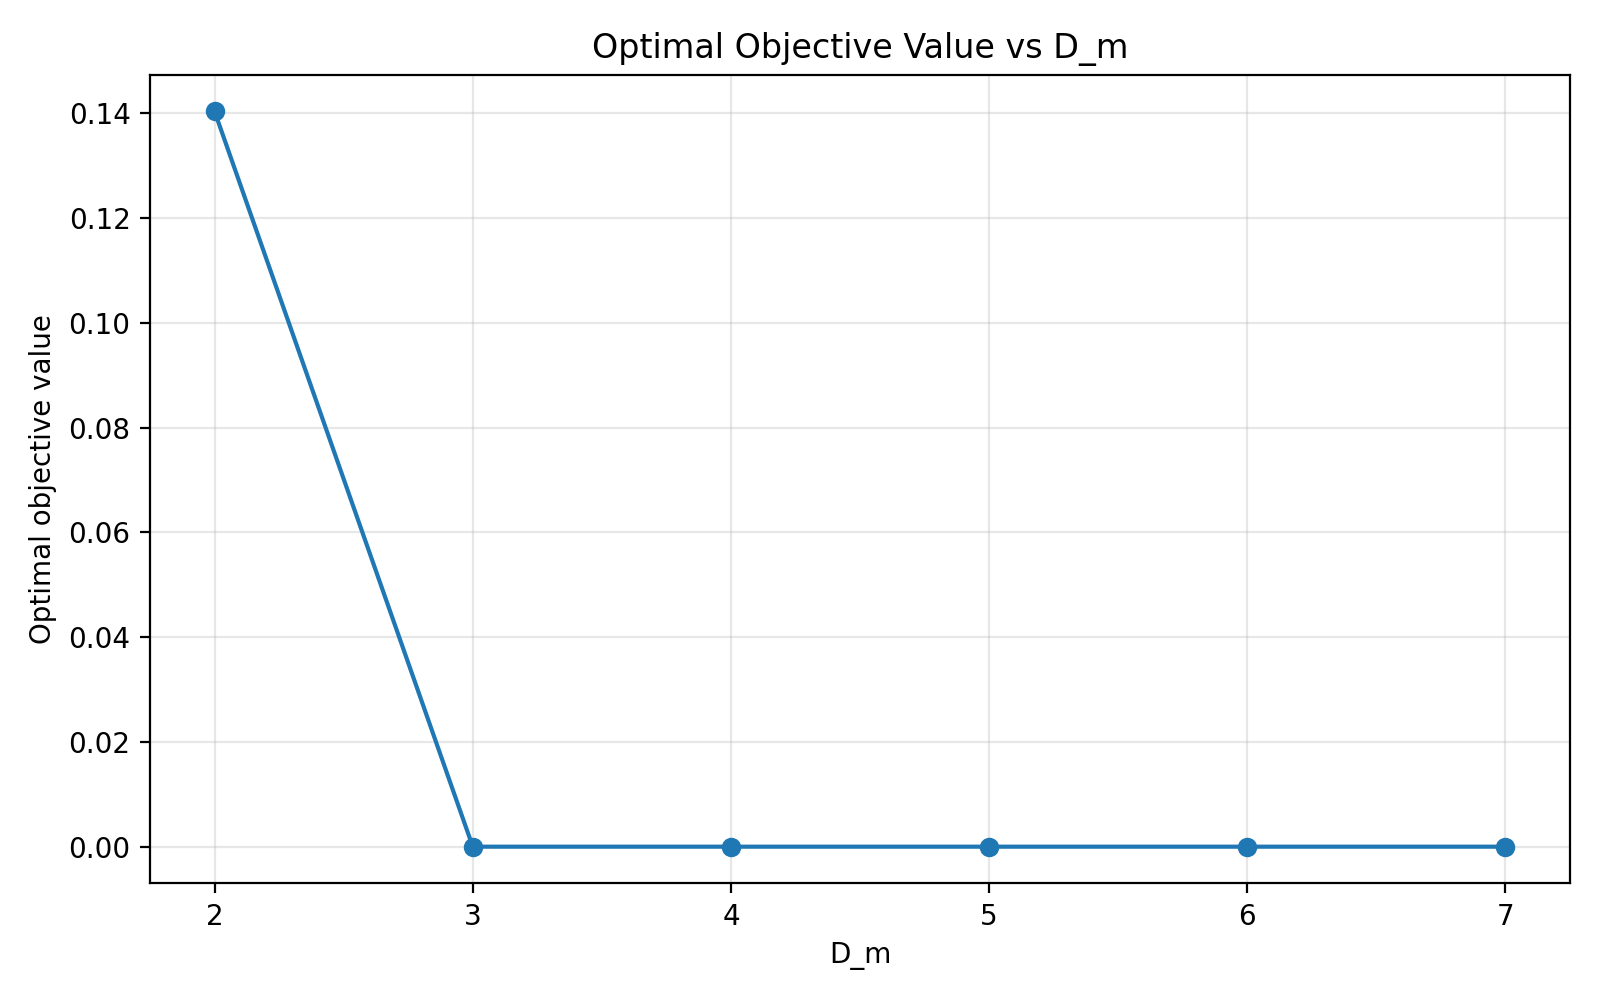
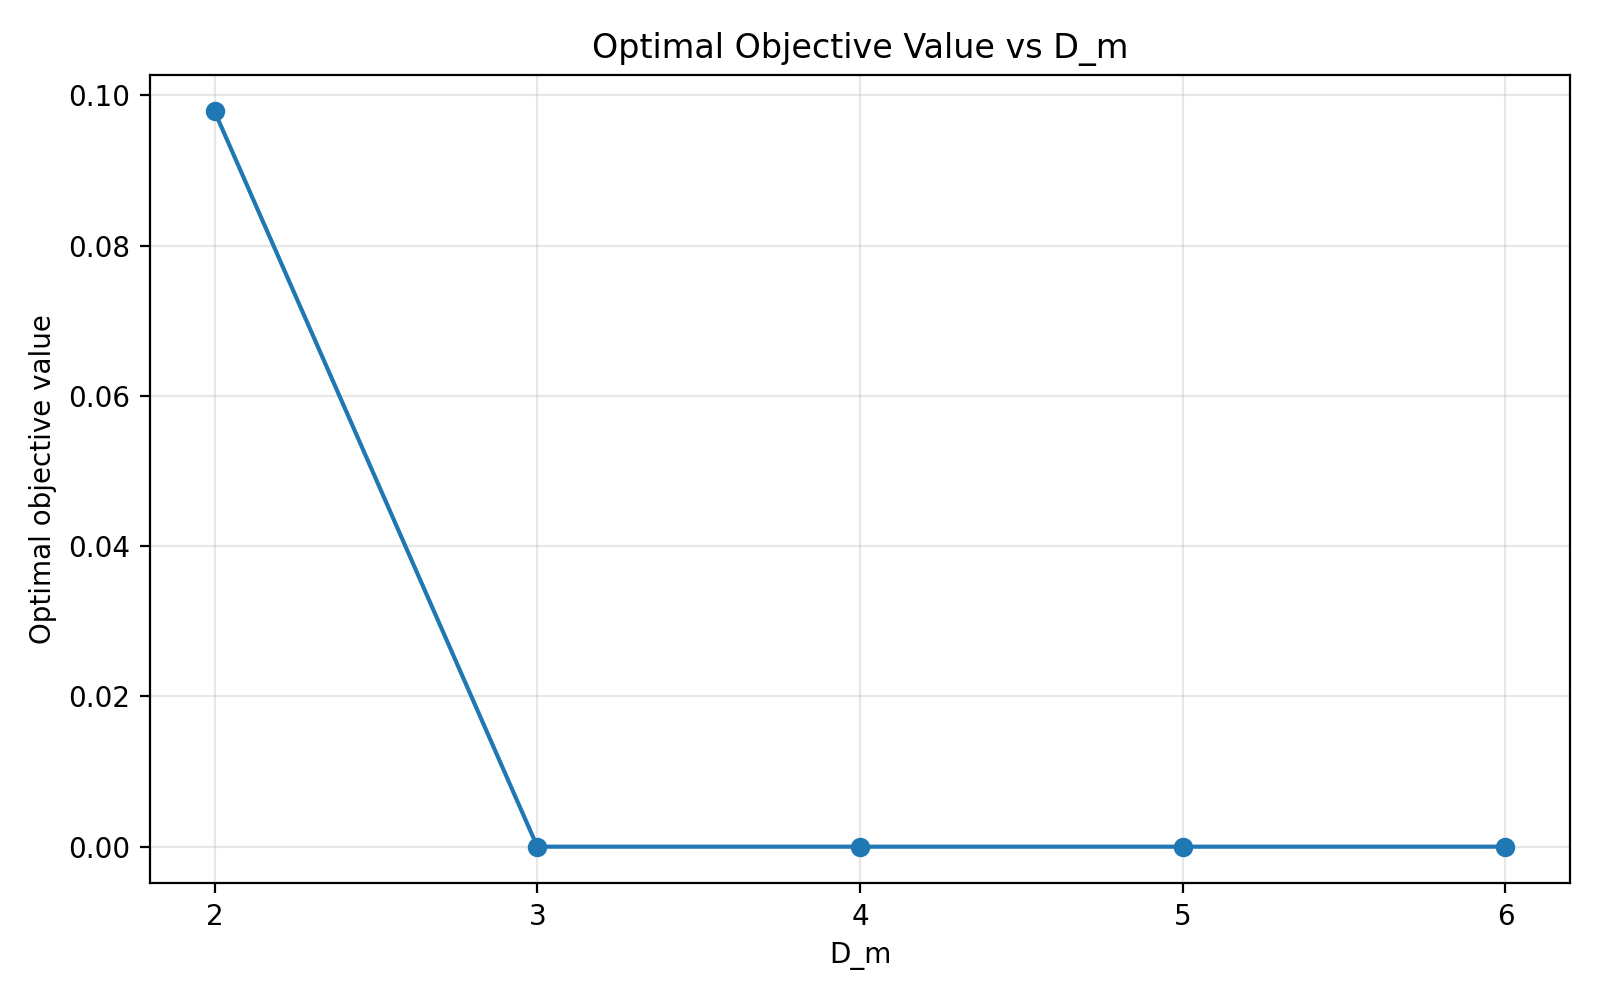
Plot with random Sigma added

diff --git a/plot_objective_vs_dm.py b/plot_objective_vs_dm.py
@@ -70,7 +70,12 @@ def parse_args():
     parser.add_argument(
         "--output",
         default="objective_vs_dm.png",
-        help="Path to save the plot image.",
+        help="Path to save the plot image for the given Sigma example.",
+    )
+    parser.add_argument(
+        "--random-output",
+        default="objective_vs_dm_random.png",
+        help="Path to save the plot image for the random Sigma example.",
     )
     return parser.parse_args()
 
@@ -78,16 +83,29 @@ def parse_args():
 if __name__ == "__main__":
     args = parse_args()
 
-    Sigma = np.array([
+    Sigma_given = np.array([
         [2.0, 0.0, 0.3],
         [0.0, 1.5, 0.4],
         [0.3, 0.4, 1.2],
     ])
 
-    d_m_values, objective_values = compute_objective_curve(Sigma)
+    d_m_values, objective_values = compute_objective_curve(Sigma_given)
 
     if len(d_m_values) == 0:
-        print("No finite solutions were found for any D_m.")
+        print("No finite solutions were found for the given Sigma.")
     else:
         plot_objective_curve(d_m_values, objective_values, args.output)
-        print(f"Saved plot to {args.output}")
+        print(f"Saved given-Sigma plot to {args.output}")
+
+    np.random.seed(1)
+    n = Sigma_given.shape[0]
+    A = np.random.randn(n, n)
+    Sigma_random = A @ A.T / n
+
+    d_m_values, objective_values = compute_objective_curve(Sigma_random)
+
+    if len(d_m_values) == 0:
+        print("No finite solutions were found for the random Sigma.")
+    else:
+        plot_objective_curve(d_m_values, objective_values, args.random_output)
+        print(f"Saved random-Sigma plot to {args.random_output}")
